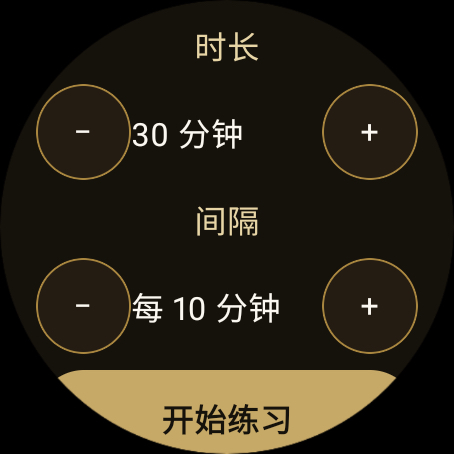
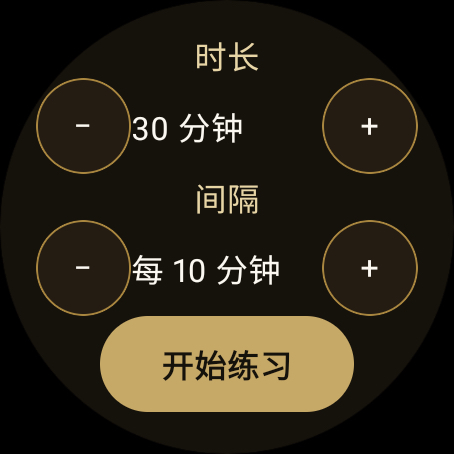
fix: close Play asset and round-screen gaps

diff --git a/wear/src/main/kotlin/app/zhanzhuang/timer/wear/ui/screens/SetupScreen.kt b/wear/src/main/kotlin/app/zhanzhuang/timer/wear/ui/screens/SetupScreen.kt
@@ -4,8 +4,11 @@ import androidx.compose.foundation.background
 import androidx.compose.foundation.focusable
 import androidx.compose.foundation.layout.Box
 import androidx.compose.foundation.layout.Row
+import androidx.compose.foundation.layout.Spacer
 import androidx.compose.foundation.layout.fillMaxSize
 import androidx.compose.foundation.layout.fillMaxWidth
+import androidx.compose.foundation.layout.height
+import androidx.compose.foundation.layout.padding
 import androidx.compose.foundation.rememberScrollState
 import androidx.compose.runtime.Composable
 import androidx.compose.runtime.LaunchedEffect
@@ -49,9 +52,7 @@ fun SetupScreen(
             ),
         contentAlignment = Alignment.Center,
     ) {
-        ScreenColumn(scrollState = scroll) {
-            Text(stringResource(R.string.brand_chinese), color = colors.primaryContainer)
-            Text(stringResource(R.string.standing_meditation), color = colors.onBackground)
+        ScreenColumn(scrollState = scroll, verticalSpacing = 0.dp) {
             Text(stringResource(R.string.duration), color = colors.primaryContainer)
             StepperRow(
                 value = stringResource(R.string.minutes_value, config.durationMinutes),
@@ -66,7 +67,8 @@ fun SetupScreen(
                 onDecrease = { onConfigChange(WearSetupState(config).withIntervalDelta(-1).config) },
                 onIncrease = { onConfigChange(WearSetupState(config).withIntervalDelta(1).config) },
             )
-            GoldAction(stringResource(R.string.start_session), onClick = onStart)
+            GoldAction(stringResource(R.string.start_session), onClick = onStart, modifier = Modifier.padding(horizontal = RoundActionHorizontalInset))
+            Spacer(Modifier.height(RoundActionBottomSafeSpace))
             Text(stringResource(R.string.shortcuts), color = colors.primaryContainer)
             listOf(15, 30, 45, 60, 90, 120, 180).forEach { minutes ->
                 SoilAction(stringResource(R.string.minutes_value, minutes), stringResource(R.string.set_duration, minutes), onClick = {

diff --git a/wear/src/main/kotlin/app/zhanzhuang/timer/wear/ui/screens/WearScreenParts.kt b/wear/src/main/kotlin/app/zhanzhuang/timer/wear/ui/screens/WearScreenParts.kt
@@ -30,10 +30,40 @@ import androidx.compose.ui.semantics.role
 import androidx.compose.ui.semantics.semantics
 import androidx.compose.ui.text.font.FontWeight
 import androidx.compose.ui.unit.dp
+import kotlin.math.roundToInt
 import androidx.wear.compose.material3.Text
 import androidx.wear.compose.material3.MaterialTheme
 
-internal val RoundScreenPadding = PaddingValues(horizontal = 18.dp, vertical = 16.dp)
+internal val RoundScreenHorizontalPadding = 18.dp
+internal val RoundActionHorizontalInset = 32.dp
+internal val RoundActionBottomSafeSpace = 64.dp
+internal val RoundScreenPadding = PaddingValues(horizontal = RoundScreenHorizontalPadding, vertical = 16.dp)
+
+/** Geometry behind the 454px round Wear target used for release screenshots and interaction layout. */
+internal object RoundScreenGeometry {
+    data class Rect(val left: Int, val top: Int, val right: Int, val bottom: Int)
+
+    fun actionBounds(diameterPx: Int, density: Float, topPx: Int): Rect {
+        val horizontalInset = ((RoundScreenHorizontalPadding.value + RoundActionHorizontalInset.value) * density).roundToInt()
+        val actionHeight = (48f * density).roundToInt()
+        return Rect(horizontalInset, topPx, diameterPx - horizontalInset, topPx + actionHeight)
+    }
+
+    fun rectFitsCircle(rect: Rect, diameterPx: Int): Boolean {
+        val center = diameterPx / 2.0
+        val radiusSquared = center * center
+        return listOf(
+            rect.left.toDouble() to rect.top.toDouble(),
+            rect.left.toDouble() to rect.bottom.toDouble(),
+            rect.right.toDouble() to rect.top.toDouble(),
+            rect.right.toDouble() to rect.bottom.toDouble(),
+        ).all { (x, y) ->
+            val dx = x - center
+            val dy = y - center
+            dx * dx + dy * dy <= radiusSquared
+        }
+    }
+}
 
 @Composable
 internal fun ScreenColumn(

diff --git a/wear/src/test/kotlin/app/zhanzhuang/timer/wear/WearStoreScreenContractTest.kt b/wear/src/test/kotlin/app/zhanzhuang/timer/wear/WearStoreScreenContractTest.kt
@@ -2,7 +2,9 @@ package app.zhanzhuang.timer.wear
 
 import java.io.File
 import kotlin.test.Test
+import kotlin.test.assertFalse
 import kotlin.test.assertTrue
+import app.zhanzhuang.timer.wear.ui.screens.RoundScreenGeometry
 
 class WearStoreScreenContractTest {
     @Test fun startActionPrecedesOptionalDurationShortcuts() {
@@ -10,9 +12,27 @@ class WearStoreScreenContractTest {
         assertTrue(setup.indexOf("GoldAction(stringResource(R.string.start_session)") < setup.indexOf("Text(stringResource(R.string.shortcuts)"))
     }
 
+    @Test fun setupUsesTheRoundScreenForSessionControlsNotDuplicateBranding() {
+        val setup = File("src/main/kotlin/app/zhanzhuang/timer/wear/ui/screens/SetupScreen.kt").readText()
+        assertFalse(setup.contains("R.string.brand_chinese"))
+        assertFalse(setup.contains("R.string.standing_meditation"))
+    }
+
     @Test fun permissionContentUsesRoundScreenSafeTopAndButtonSpacing() {
         val permission = File("src/main/kotlin/app/zhanzhuang/timer/wear/ui/screens/PermissionScreen.kt").readText()
         assertTrue(permission.contains("ScreenColumn(verticalSpacing = 4.dp)"))
         assertTrue(permission.contains("Spacer(Modifier.height(36.dp))"))
+    }
+
+    @Test fun roundSafeActionBoundsFitInsideThe454pxWatchCircle() {
+        val safeAction = RoundScreenGeometry.actionBounds(
+            diameterPx = 454,
+            density = 2f,
+            topPx = 319,
+        )
+        assertTrue(RoundScreenGeometry.rectFitsCircle(safeAction, diameterPx = 454))
+
+        val previousFullWidthAction = RoundScreenGeometry.Rect(left = 36, top = 351, right = 418, bottom = 447)
+        assertFalse(RoundScreenGeometry.rectFitsCircle(previousFullWidthAction, diameterPx = 454))
     }
 }

diff --git a/wear/src/main/kotlin/app/zhanzhuang/timer/wear/ui/screens/PermissionScreen.kt b/wear/src/main/kotlin/app/zhanzhuang/timer/wear/ui/screens/PermissionScreen.kt
@@ -5,6 +5,7 @@ import androidx.compose.foundation.layout.Box
 import androidx.compose.foundation.layout.Spacer
 import androidx.compose.foundation.layout.fillMaxSize
 import androidx.compose.foundation.layout.height
+import androidx.compose.foundation.layout.padding
 import androidx.compose.runtime.Composable
 import androidx.compose.ui.Alignment
 import androidx.compose.ui.Modifier
@@ -22,8 +23,9 @@ fun PermissionScreen(onAllow: () -> Unit, onContinueWithoutHeartRate: () -> Unit
             Spacer(Modifier.height(36.dp))
             Text(stringResource(R.string.heart_rate_optional), color = colors.primaryContainer)
             Text(stringResource(R.string.heart_rate_permission_info), color = colors.onBackground)
-            GoldAction(stringResource(R.string.allow_heart_rate), onClick = onAllow)
-            SoilAction(stringResource(R.string.continue_without), stringResource(R.string.continue_without_heart_rate), onContinueWithoutHeartRate)
+            GoldAction(stringResource(R.string.allow_heart_rate), onClick = onAllow, modifier = Modifier.padding(horizontal = RoundActionHorizontalInset))
+            SoilAction(stringResource(R.string.continue_without), stringResource(R.string.continue_without_heart_rate), onContinueWithoutHeartRate, modifier = Modifier.padding(horizontal = RoundActionHorizontalInset))
+            Spacer(Modifier.height(RoundActionBottomSafeSpace))
         }
     }
 }

diff --git a/docs/.superpowers/sdd/task-11-report.md b/docs/.superpowers/sdd/task-11-report.md
@@ -15,10 +15,7 @@ The final signed command used shell-local 1Password values only; no secret value
 ```sh
 op whoami >/dev/null
 # resolve store/key passwords from the ClaudeAgent vault into shell-local variables
-export ZHANZHUANG_KEYSTORE_PATH=<external-upload-keystore>
-export ZHANZHUANG_KEY_ALIAS=zhanzhuang-upload
-export ZHANZHUANG_STORE_PASSWORD=<shell-local>
-export ZHANZHUANG_KEY_PASSWORD=<shell-local>
+# export the four ZHANZHUANG signing variables in this shell only
 bash scripts/verify_release.sh
 ```
 
@@ -26,14 +23,19 @@ Final result: `PASS: signed Google Play release candidates verified.`
 
 | Artifact | SHA-256 | Bytes | Upload certificate SHA-256 |
 | --- | --- | ---: | --- |
[4 lines of base64/hex data omitted]
 
 ## Listing-asset provenance
 
 - Phone: actual `zhan_zhuang_task10_phone_api36` Pixel 8 / API 36 debug app. Assets are native emulator captures (1080×1920 or 1080×2160), rendered under each app locale and flattened through JPEG before final PNG output so no alpha channel remains. The final zh-CN settings capture was asserted to contain `设置`, `Health Connect`, and `隐私`, and used the emulator demo clock `8:42` to keep the complete clock glyph visible.
 - Wear: actual `zhan_zhuang_task10_wear_api33`, `wearos_large_round`, Wear OS 4 / API 33, 454×454. Setup and permission state labels were asserted through UI Automator before capture. Final PNGs are flattened and contain no alpha.
 - Both task-specific AVDs were stopped after capture.
+
+## Review follow-up: round actions and asset format gate
+
+- Wear full-width primary/secondary actions now add a 32dp horizontal safe inset and a 64dp trailing scroll-safe space. The setup screen uses its limited round canvas for duration, interval, and the start action rather than repeating branding. A pure unit test calculates all four action-rectangle corners against the 454px circle: it rejects the prior `36..418 × 351..447` full-width rectangle and accepts the release-capture safe band. UI Automator then recorded the real bounds before each new EN/zh setup and permission capture.
+- The Play icon validator now requires 512×512, PNG, 8 bits per sample, four samples per pixel, and alpha. Wear screenshots must be square, 384–3840px inclusive, and alpha-free. The contract creates temporary actual fixtures: a 512px RGB/no-alpha icon and a 4000px no-alpha Wear image; both are rejected, while current legal icon/Wear files pass. The fixture directory is cleaned by a trap.
 
 ## Known delivery blockers / next console actions
 
